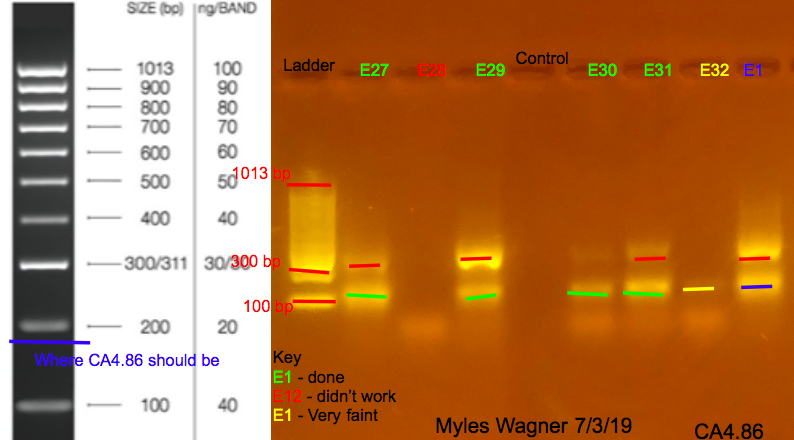
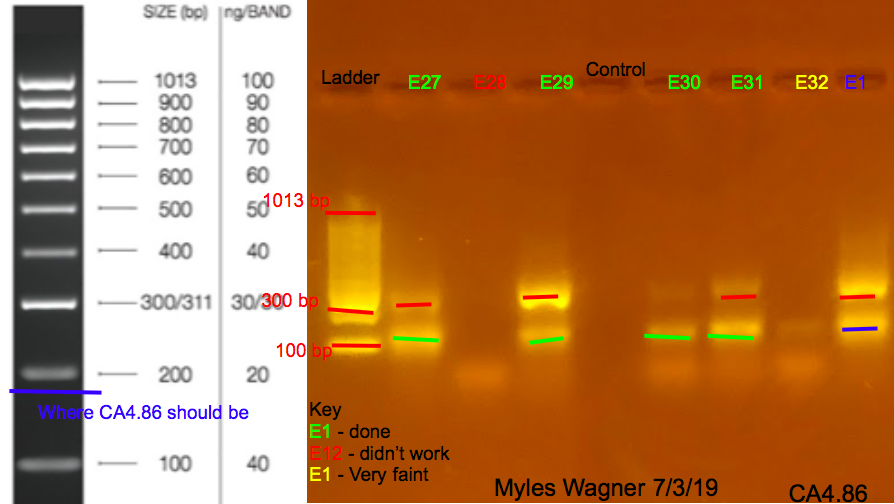
updating posts with new information

diff --git a/_posts/2019-7-3-CA4_PCR3.md b/_posts/2019-7-3-CA4_PCR3.md
@@ -76,6 +76,8 @@ This is the resulting Gel
 
 Many of these had multiple bands show up meaning somthing else was amplified from the sample. further tests will try to eliminate that band
 
-E30 showed up in this Gel. E30 has not shown up in most of the past primers so this should be double checked
+Originally the bottom bands were thought to be in the right place while the top bands were not the correct amplification
+    However after doing more PCRs is was reaized that it was the other way around. 
+This also cleared up the mystery of why it seemed like E30 E34 E35 E36 and E37 were working when they usually do not show up in PCRs
 
-E34 E35 E36 and E37 also have shown up for the first time in this Gel 
+some of these should be tested agian to confirm this conclusion s correct.

diff --git a/_posts/2019-7-3-CA4_PCR2.md b/_posts/2019-7-3-CA4_PCR2.md
@@ -76,5 +76,6 @@ This is the resulting Gel
 
 Many of these had multiple bands show up meaning somthing else was amplified from the sample. further tests will try to eliminate that band
 
-E20 showed up in this Gel in the right place, this is suspicious since E20 has not shown up for any other primer so far
-    this should be tested again to confirm that it is correct
+Originally the bottom bands were thought to be in the right place while the top bands were not the correct amplification
+    However after doing more PCRs is was reaized that it was the other way around. 
+This also cleared up the mystery of why it seemed like E20 was working for the first time in any PCR.

diff --git a/_posts/2019-7-8-CA4_PCR4.md b/_posts/2019-7-8-CA4_PCR4.md
@@ -75,3 +75,6 @@ This is the resulting Gel
 
 ### Notes
 
+These two sets had an anealing temperature of 51°C they worked well and the secound band that was showing up in previous PCRs seemed to have gone away
+
+This Gel had slightly more clear results than the gel with a higher temperature so 51°C is what I will use going forward.

diff --git a/_posts/2019-7-8-CA4_PCR5.md b/_posts/2019-7-8-CA4_PCR5.md
@@ -76,3 +76,7 @@ This is the resulting Gel
 
 
 ### Notes
+
+These two sets had an anealing temperature of 52°C they worked well and the secound band that was showing up in previous PCRs seemed to have gone away
+
+however these were very blurry and so using an annealing temp of 51°C may be the best option going forward.
